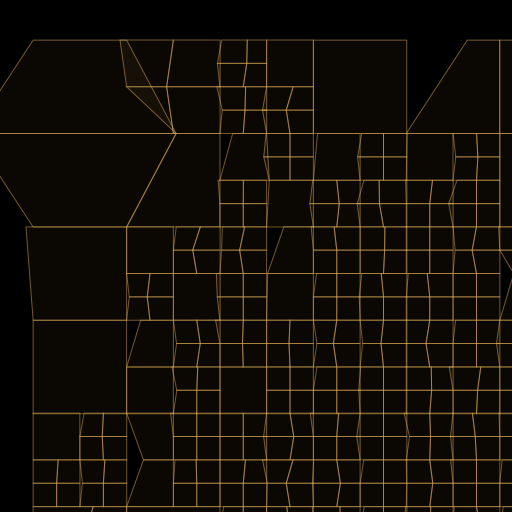
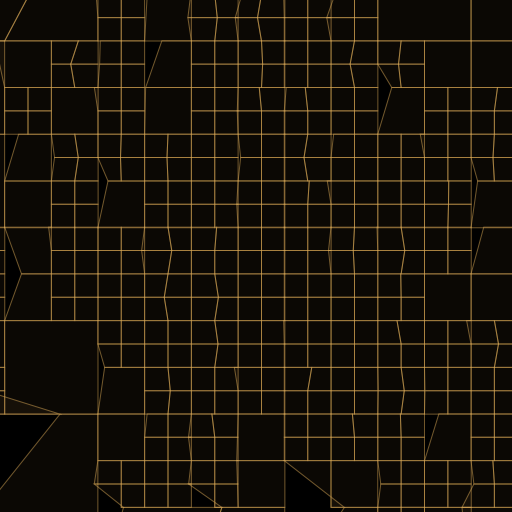
allow setting different thresholds for the smallest blocks

Changed region(s): [[0.0, 0.0, 1.0, 1.0], [0.0312, 0.0, 0.0625, 0.0312]]

diff --git a/lib/perturb-street-grid.ts b/lib/perturb-street-grid.ts
@@ -13,6 +13,7 @@ interface IPointToTransform {
         lat: number;
         long: number;
     };
+    isSmallestBlock: boolean;
 }
 
 function perturbStreetGrid(
@@ -42,7 +43,9 @@ function perturbStreetGrid(
             // Increase this value to make street be perturbed less often.
             // 0 = always perturb; 1 = never perturb.
             // Range: [0, 1]
-            shouldPerturbThreshold = .5;
+            shouldPerturbThreshold = .3,
+
+            shouldPerturbThresholdForSmallestBlocks = .8;
 
         function getScalingFactor() {
             return pRNG() * 2 - 1;
@@ -88,10 +91,16 @@ function perturbStreetGrid(
                             };
 
                         if (previousPointToTransform) {
+                            // It's odd that this never fires.
                             logger.warn('Duplicate found');
                         }
 
-                        return pointsToTransform.concat([{point, transformation}]);
+                        return pointsToTransform.concat([{
+                            point,
+                            transformation,
+                            isSmallestBlock: this.parent.parent.node.properties.generationDebugging_reasonStopped
+                                === 'area below minimum block size'
+                        }]);
                     }
 
                     logger.debug({
@@ -103,16 +112,21 @@ function perturbStreetGrid(
 
                     return pointsToTransform;
             }, []),
+
             pointsToTransformSampled = _(pointsToTransform)
                 // We need to sort first so we are always filtering the same way.
                 .sortBy(({point}: IPointToTransform) => point[0])
                 .sortBy(({point}: IPointToTransform) => point[1])
-                .filter(() => pRNG() > shouldPerturbThreshold)
+                .filter(({isSmallestBlock}: IPointToTransform) => {
+                    const threshold =
+                        isSmallestBlock ? shouldPerturbThresholdForSmallestBlocks : shouldPerturbThreshold;
+                    return pRNG() > threshold;
+                })
                 .value();
 
         logger.debug({
             count: pointsToTransformSampled.length,
-            unsampledCount: pointsToTransform.length
+            unsampledCount: pointsToTransform.length,
         }, 'Found points to transform');
 
         assert(
